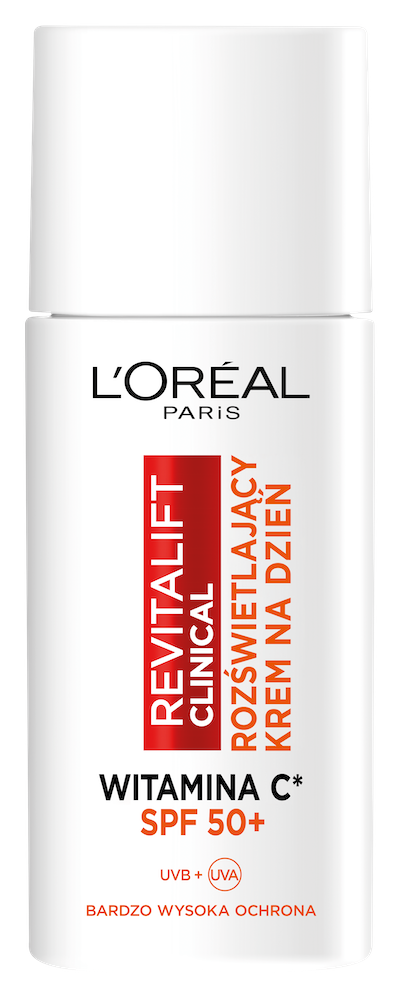
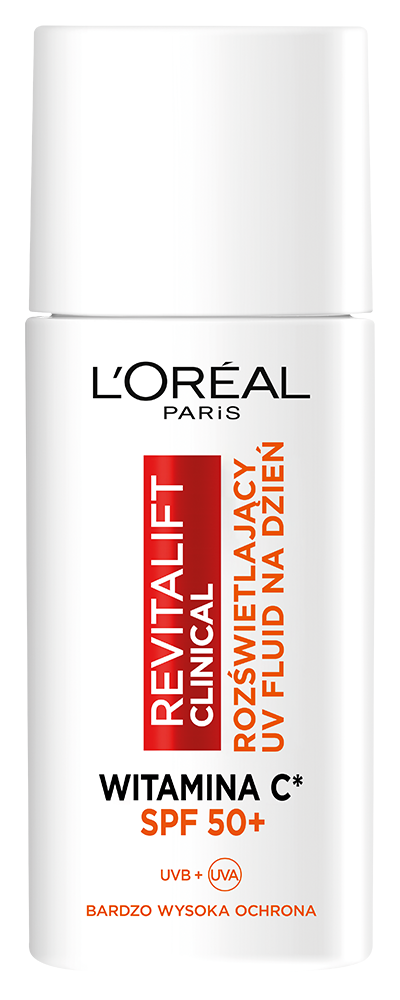
Change packshot in cross section, Add missing question mark

Changed region(s): [[0.21, 0.341, 0.78, 0.93], [0.24, 0.341, 0.54, 0.434]]

diff --git a/src/index.html b/src/index.html
@@ -74,7 +74,7 @@
             <p class="es-routine__ba--number">4x</p>
             <p class="es-routine__ba--content">bardziej<br><strong>rozświetlona</strong><br>skóra<sup>**</sup></p>
           </div>
-          <div class="es-routine__ba">
+          <div class="es-routine__ba">ńja
             <div class="es-routine__ba--single">
               <img src="./images/before.png" alt="" class="es-routine__img">
               <p class="es-routine__ba--desc">przed<sup>***</sup></p>
@@ -268,7 +268,7 @@ w ciągu dnia z kremem z SPF wzmacnia jego działanie i dodatkowo chroni naszą 
       </div>
 
       <section class="es-use">
-        <h2 class="es-use__title"> Jak stosować</h2>
+        <h2 class="es-use__title"> Jak stosować?</h2>
         <div class="es-use__wrapper">
           <div class="es-use__single">
             <img src="./images/use-1.png" alt="" class="es-use__photo">
